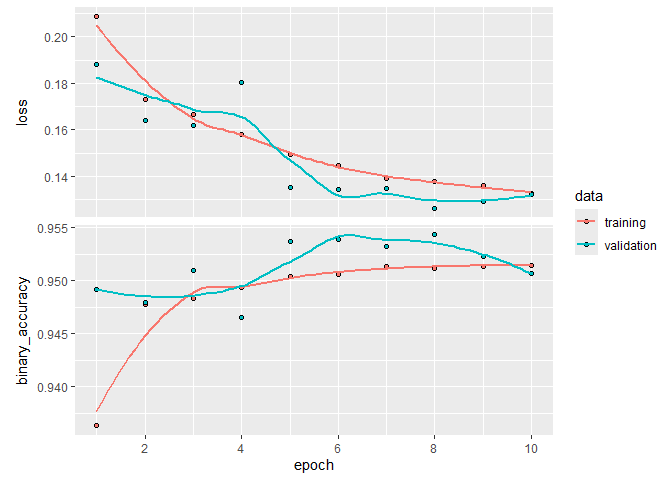
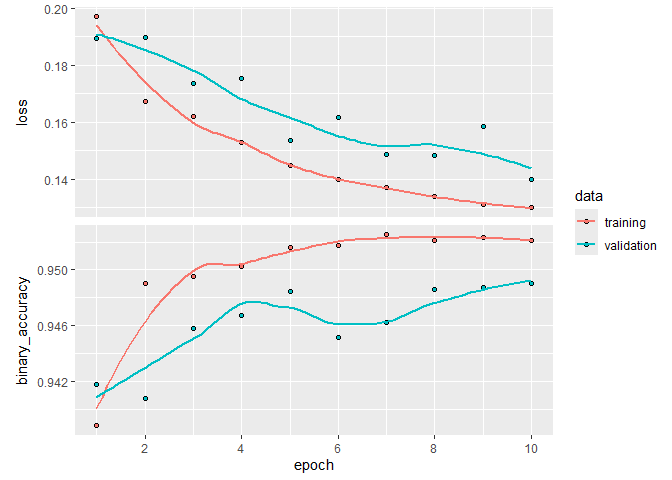
README updated

diff --git a/README.md b/README.md
@@ -253,25 +253,25 @@ diagnostics <- fit(unet_model,
                epochs = 10,
                validation_data = testing_dataset)
 #> Epoch 1/10
-#> 395/395 - 1288s - loss: 0.2086 - binary_accuracy: 0.9363 - val_loss: 0.1883 - val_binary_accuracy: 0.9492 - 1288s/epoch - 3s/step
+#> 395/395 - 1142s - loss: 0.1969 - binary_accuracy: 0.9388 - val_loss: 0.1894 - val_binary_accuracy: 0.9418 - 1142s/epoch - 3s/step
 #> Epoch 2/10
-#> 395/395 - 1150s - loss: 0.1731 - binary_accuracy: 0.9478 - val_loss: 0.1640 - val_binary_accuracy: 0.9479 - 1150s/epoch - 3s/step
+#> 395/395 - 1100s - loss: 0.1673 - binary_accuracy: 0.9490 - val_loss: 0.1897 - val_binary_accuracy: 0.9408 - 1100s/epoch - 3s/step
 #> Epoch 3/10
-#> 395/395 - 1116s - loss: 0.1667 - binary_accuracy: 0.9483 - val_loss: 0.1618 - val_binary_accuracy: 0.9510 - 1116s/epoch - 3s/step
+#> 395/395 - 1109s - loss: 0.1620 - binary_accuracy: 0.9495 - val_loss: 0.1737 - val_binary_accuracy: 0.9458 - 1109s/epoch - 3s/step
 #> Epoch 4/10
-#> 395/395 - 1116s - loss: 0.1578 - binary_accuracy: 0.9493 - val_loss: 0.1805 - val_binary_accuracy: 0.9465 - 1116s/epoch - 3s/step
+#> 395/395 - 1077s - loss: 0.1528 - binary_accuracy: 0.9502 - val_loss: 0.1754 - val_binary_accuracy: 0.9468 - 1077s/epoch - 3s/step
 #> Epoch 5/10
-#> 395/395 - 1124s - loss: 0.1494 - binary_accuracy: 0.9504 - val_loss: 0.1351 - val_binary_accuracy: 0.9537 - 1124s/epoch - 3s/step
+#> 395/395 - 1082s - loss: 0.1448 - binary_accuracy: 0.9516 - val_loss: 0.1537 - val_binary_accuracy: 0.9484 - 1082s/epoch - 3s/step
 #> Epoch 6/10
-#> 395/395 - 1163s - loss: 0.1448 - binary_accuracy: 0.9506 - val_loss: 0.1344 - val_binary_accuracy: 0.9539 - 1163s/epoch - 3s/step
+#> 395/395 - 1096s - loss: 0.1400 - binary_accuracy: 0.9518 - val_loss: 0.1617 - val_binary_accuracy: 0.9452 - 1096s/epoch - 3s/step
 #> Epoch 7/10
-#> 395/395 - 1150s - loss: 0.1391 - binary_accuracy: 0.9513 - val_loss: 0.1347 - val_binary_accuracy: 0.9533 - 1150s/epoch - 3s/step
+#> 395/395 - 1080s - loss: 0.1370 - binary_accuracy: 0.9525 - val_loss: 0.1487 - val_binary_accuracy: 0.9462 - 1080s/epoch - 3s/step
 #> Epoch 8/10
-#> 395/395 - 1178s - loss: 0.1380 - binary_accuracy: 0.9512 - val_loss: 0.1263 - val_binary_accuracy: 0.9544 - 1178s/epoch - 3s/step
+#> 395/395 - 1109s - loss: 0.1340 - binary_accuracy: 0.9521 - val_loss: 0.1484 - val_binary_accuracy: 0.9486 - 1109s/epoch - 3s/step
 #> Epoch 9/10
-#> 395/395 - 1186s - loss: 0.1358 - binary_accuracy: 0.9514 - val_loss: 0.1290 - val_binary_accuracy: 0.9523 - 1186s/epoch - 3s/step
+#> 395/395 - 1136s - loss: 0.1313 - binary_accuracy: 0.9523 - val_loss: 0.1586 - val_binary_accuracy: 0.9488 - 1136s/epoch - 3s/step
 #> Epoch 10/10
-#> 395/395 - 1187s - loss: 0.1327 - binary_accuracy: 0.9514 - val_loss: 0.1324 - val_binary_accuracy: 0.9507 - 1187s/epoch - 3s/step
+#> 395/395 - 1086s - loss: 0.1300 - binary_accuracy: 0.9521 - val_loss: 0.1399 - val_binary_accuracy: 0.9490 - 1086s/epoch - 3s/step
 
 plot(diagnostics)
 ```
@@ -300,9 +300,8 @@ of the `magick` library to stack these images.
 
 ``` r
 pred <- predict(object = flood_model,testing_dataset)
-#> 99/99 - 53s - 53s/epoch - 531ms/step
-image_num <- 54
-
+#> 99/99 - 51s - 51s/epoch - 512ms/step
+image_num <- 30
 pred_img <- as.raster(pred[image_num,,,]) |> magick::image_read()
 mask <- as.raster(testing(files_split)[image_num,c('mask')][[1]]) |> magick::image_read()
 img <- as.raster(testing(files_split)[image_num,c('img')][[1]][,,4:2]) |> magick::image_read()
